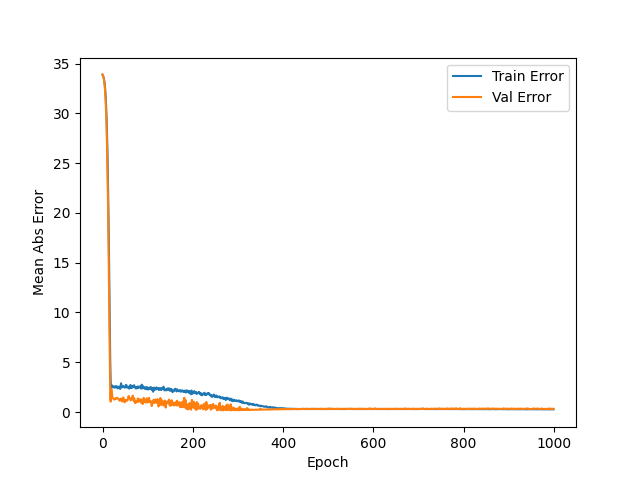
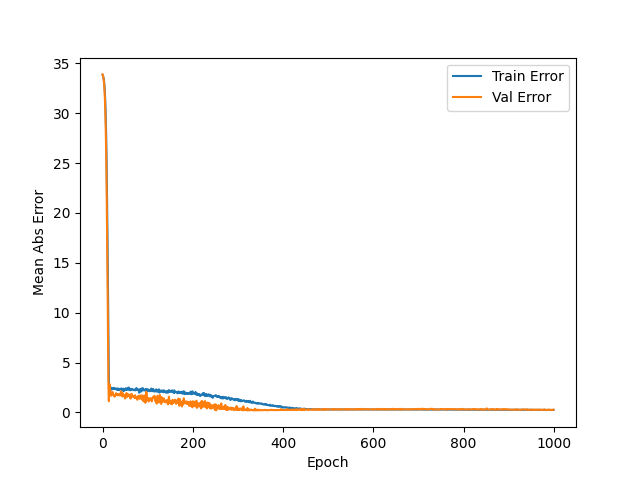
fix the split of dataset
sequential data split on 80-20

Changed region(s): [[0.1562, 0.1562, 0.875, 0.875]]

diff --git a/feedforward.py b/feedforward.py
@@ -83,8 +83,27 @@ def main():
     X = X.reshape((X.shape[0], n_input))
 
     # Split of the data
-    train_features, test_features, train_target, test_target = train_test_split(X, Y, test_size = 0.25, random_state = 42, shuffle = False)
+    #train_features, test_features, train_target, test_target = train_test_split(X, Y, test_size = 0.25, random_state = 42, shuffle = False)
     
+    #using a split of 80-20
+    train_size = int(len(X)*0.80)
+    train_features, test_features = X[0:train_size], X[train_size:len(X)]
+    train_val_size = int(len(train_features)*0.80)
+    train_features, val_features= train_features[0:train_val_size],train_features[train_val_size:len(train_features)]
+    print('Observations: %d' % (len(X)))
+    print('Training Observations: %d' % (len(train_features)))
+    print('Testing Observations: %d' % (len(test_features)))
+    print('Validation observations: %d' % (len(val_features)))
+    #figure()
+    #plt.plot(train)
+    #plt.plot([None for i in train] + [v for v in val] + [None for x in test])
+    #plt.plot([None for i in train] + [None for v in val] + [x for x in test])
+    #plt.savefig(CWD + '/figures/train, validation and test dataset.png')
+    #plt.show()
+    train_target, test_target = Y[0:train_size], Y[train_size:len(Y)]
+    train_target, val_target = train_target[0:train_val_size], train_target[train_val_size:len(train_target)]
+    
+    print('check len test_target: %d' % (len(test_target)))
     # Normalize data
     #train_features = train_features.describe()
     #train_features = train_features.transpose()
@@ -111,7 +130,7 @@ def main():
     #es = EarlyStopping(monitor='val_loss', mode='min', verbose=1)    
 
     # validation_split=0.2 TO USE
-    model_history = model.fit(train_features, train_target, epochs=1000, verbose=0, validation_split = 0.2)   # I can select the learning rate through the optimizer
+    model_history = model.fit(train_features, train_target, epochs=1000, verbose=0, validation_data = [val_features,val_target])   # I can select the learning rate through the optimizer
 
 
     ### to plot model's training cost/loss and model's validation split cost/loss
@@ -122,12 +141,17 @@ def main():
     ### Predictions
     train_targets_pred = model.predict(train_features)
     test_targets_pred = model.predict(test_features)
-
+    print("len of train pred", train_targets_pred.shape)
+    print("len of test pred", test_targets_pred.shape)
     ### R2 score of training and testing data 
     # R2 is a statistical measure of how close the data is to the regression model (its output)
-    print("The R2 score on the Train set is:\t{:0.3f}".format(r2_score(train_target,train_targets_pred)))
-    print("The R2 score on the Test set is:\t{:0.3f}".format(r2_score(test_target,test_targets_pred)))
+    #print("The R2 score on the Train set is:\t{:0.3f}".format(r2_score(train_target,train_targets_pred)))
+    #print("The R2 score on the Test set is:\t{:0.3f}".format(r2_score(test_target,test_targets_pred)))
     ## if we are having r2_score bigger of train set then in test set, we are probably overfitting
+    ## standardizing statsmodel
+
+
+
 
     "--Plots--"
     def plot_history(history):
@@ -159,7 +183,20 @@ def main():
         # plt.savefig(CWD + '/figures/Predictions vs groundtruth.png')
         # plt.show()
 
-
+        #plot
+        #plt.figure()
+        #plt.scatter(train_target,edgecolors='g')
+        #plt.plot(train_targets_pred,'r')
+        #plt.legend([ 'Predictated Y' ,'Actual Y'])
+        #plt.savefig(CWD + '/figures/trainpredictions.png')
+        #plt.show()
+        
+        #plt.figure()
+        #plt.scatter(test_target,edgecolors='g')
+        #plt.plot(test_targets_pred,'r')
+        #plt.legend(['Predictated test','Actual test'])
+        #plt.savefig(CWD + '/figures/testpredictions.png')
+        #plt.show()
     plot_history(model_history)
     
 if __name__ == "__main__":
